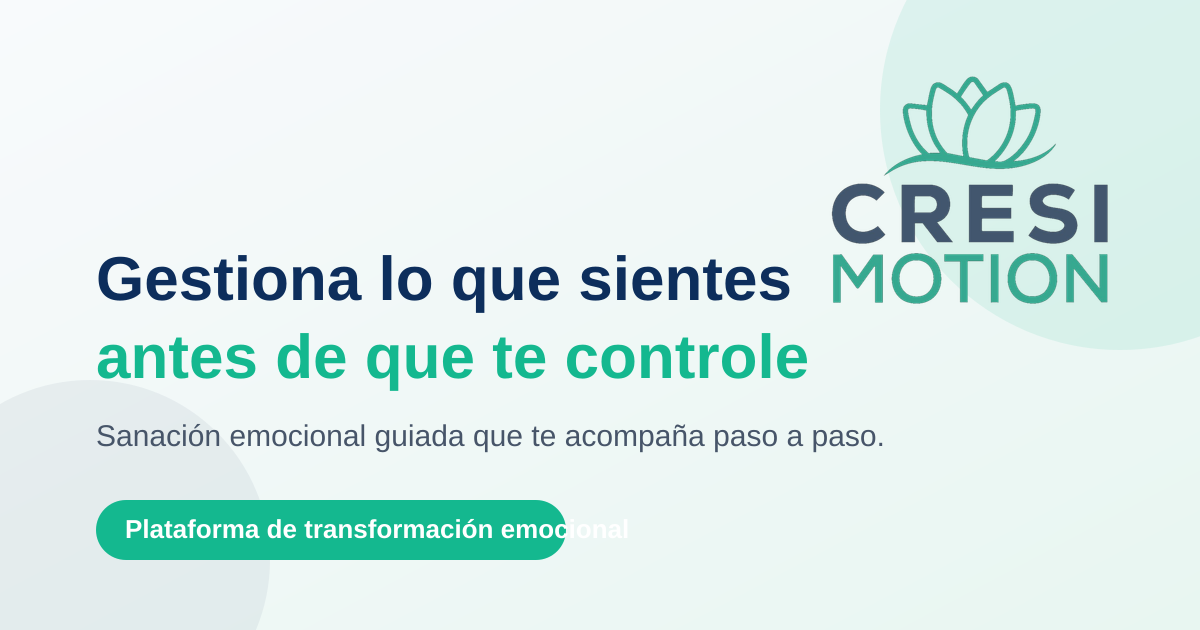
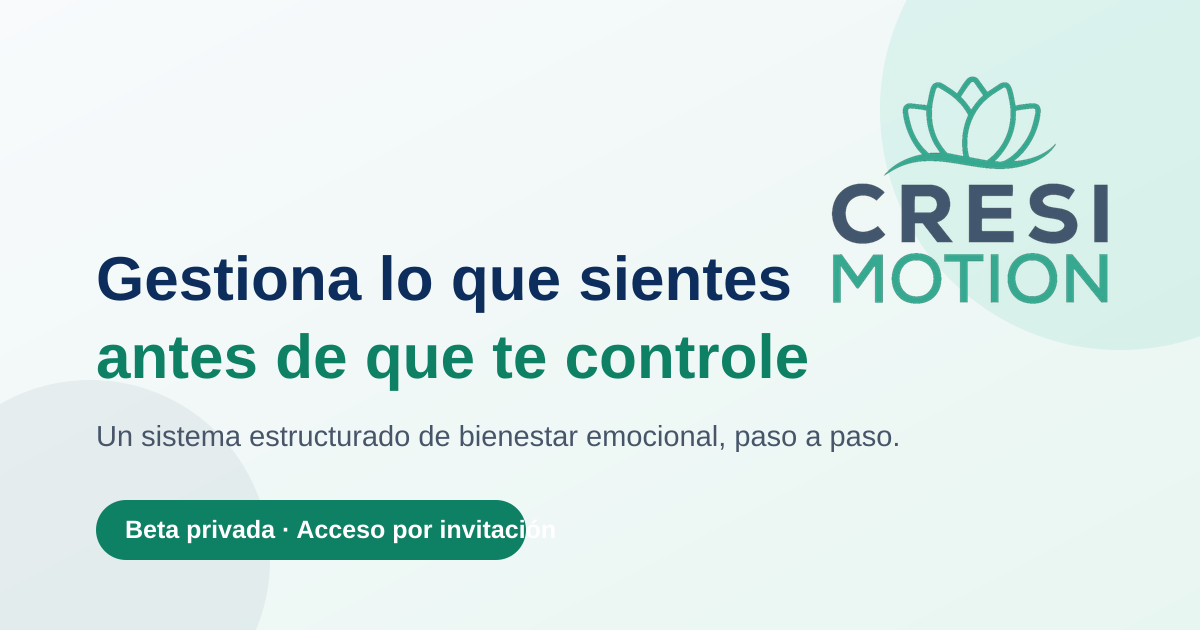
Apply CEO review: reposition product, beta benefits, inclusive copy
- Hero indicators now: Autoevaluaciones, Sesión terapéutica, Creación
  de hábitos saludables
- Reposition as "un sistema estructurado de bienestar emocional que te
  acompaña paso a paso" (hero + meta description + OG image)
- Gender-neutral copy throughout (saturación emocional y mental;
  invitación recibida; "todo listo"; "primeras personas")
- Reframe Expo Go as a temporary beta-only distribution method with a
  reassuring explainer (Expo Go is not CresiMotion; only to access the
  beta; gone in the final version) + secondary "Ver guía detallada de
  acceso" button (click_guia_acceso event)
- New "Beneficios por participar en la beta" section: 1 año Premium
  gratis, acceso anticipado, participación en la evolución; note that
  keeping the benefit requires sharing feedback

Claude-Session: https://claude.ai/code/session_017GDB93FxfebjZPLaZCRGbv

Changed region(s): [[0.0617, 0.7841, 0.4933, 0.9048], [0.0617, 0.6635, 0.74, 0.7238], [0.0617, 0.5127, 0.6783, 0.6333]]

diff --git a/components/BetaBenefits.tsx b/components/BetaBenefits.tsx
@@ -1,0 +1,75 @@
+import Reveal from "./Reveal";
+import { IconGift, IconBolt, IconCommunity, IconInfo } from "./Icons";
+
+const benefits = [
+  {
+    icon: IconGift,
+    title: "1 año de Premium gratis",
+    text: "Disfruta un año completo de membresía Premium sin costo por sumarte a la beta privada.",
+  },
+  {
+    icon: IconBolt,
+    title: "Acceso anticipado",
+    text: "Eres de las primeras personas en usar CresiMotion y en estrenar cada nueva función antes que nadie.",
+  },
+  {
+    icon: IconCommunity,
+    title: "Participa en su evolución",
+    text: "Tu voz influye directamente en cómo crece el producto y en las mejoras que vienen.",
+  },
+];
+
+export default function BetaBenefits() {
+  return (
+    <section id="beneficios-beta" className="scroll-mt-20 py-20 sm:py-24">
+      <div className="mx-auto max-w-6xl px-4 sm:px-6">
+        <Reveal className="mx-auto max-w-2xl text-center">
+          <p className="text-sm font-semibold uppercase tracking-wide text-brand-cta">
+            Beta privada
+          </p>
+          <h2 className="mt-3 text-3xl font-bold tracking-tight text-brand-navy sm:text-4xl">
+            Beneficios por participar en la beta
+          </h2>
+          <p className="mt-4 text-lg text-slate-600">
+            Sumarte ahora tiene ventajas que no estarán disponibles más adelante.
+          </p>
+        </Reveal>
+
+        <ul className="mt-12 grid gap-5 sm:grid-cols-3">
+          {benefits.map(({ icon: Icon, title, text }, i) => (
+            <Reveal as="li" key={title} delay={i * 90}>
+              <div className="h-full rounded-2xl border border-slate-100 bg-white p-7 shadow-sm transition-all duration-300 hover:-translate-y-1 hover:border-brand-green/30 hover:shadow-lg">
+                <span className="flex h-12 w-12 items-center justify-center rounded-xl bg-brand-green/10 text-brand-cta">
+                  <Icon className="h-6 w-6" />
+                </span>
+                <h3 className="mt-5 text-lg font-bold text-brand-navy">
+                  {title}
+                </h3>
+                <p className="mt-2 text-base leading-relaxed text-slate-600">
+                  {text}
+                </p>
+              </div>
+            </Reveal>
+          ))}
+        </ul>
+
+        {/* Condición de permanencia del beneficio */}
+        <Reveal delay={120}>
+          <div className="mx-auto mt-8 flex max-w-3xl items-start gap-3 rounded-2xl border border-brand-green/25 bg-brand-green/5 p-5">
+            <span className="mt-0.5 flex h-7 w-7 shrink-0 items-center justify-center rounded-full bg-brand-cta text-white">
+              <IconInfo className="h-4 w-4" />
+            </span>
+            <p className="text-sm leading-relaxed text-ink">
+              <span className="font-semibold text-brand-navy">
+                ¿Cómo conservas estos beneficios?
+              </span>{" "}
+              Para mantener el año de Premium gratis solo necesitas compartir tus
+              observaciones y comentarios sobre tu experiencia de uso. Tu
+              retroalimentación es parte esencial de la beta.
+            </p>
+          </div>
+        </Reveal>
+      </div>
+    </section>
+  );
+}

diff --git a/components/HowToStart.tsx b/components/HowToStart.tsx
@@ -6,12 +6,15 @@ import {
   EXPO_APP_URL,
   EXPO_GO_ANDROID_URL,
   EXPO_GO_IOS_URL,
+  ACCESS_GUIDE_URL,
 } from "@/lib/config";
 import {
   IconAndroid,
   IconApple,
   IconArrowRight,
   IconWarning,
+  IconInfo,
+  IconBook,
 } from "./Icons";
 
 export default function HowToStart() {
@@ -34,13 +37,44 @@ export default function HowToStart() {
           </p>
         </Reveal>
 
-        {/* Requisito previo: Expo Go (de-emphasized) */}
+        {/* Explicación tranquilizadora sobre Expo Go (solución temporal) */}
         <Reveal delay={80}>
-          <div className="mx-auto mt-10 max-w-xl rounded-2xl border border-white/10 bg-white/[0.04] p-5">
+          <div className="mx-auto mt-10 max-w-xl rounded-2xl border border-white/10 bg-white/[0.05] p-6">
+            <div className="flex items-center gap-3">
+              <span className="flex h-9 w-9 shrink-0 items-center justify-center rounded-full bg-brand-green/15 text-brand-green">
+                <IconInfo className="h-5 w-5" />
+              </span>
+              <h3 className="text-base font-bold">¿Qué es Expo Go?</h3>
+            </div>
+            <p className="mt-4 text-sm leading-relaxed text-slate-300">
+              Durante la beta, CresiMotion se distribuye de forma temporal a
+              través de Expo Go. Es solo la puerta de entrada para abrir la beta
+              en tu teléfono.
+            </p>
+            <ul className="mt-4 space-y-2.5 text-sm text-slate-200">
+              <ClarifyItem>
+                Expo Go <span className="font-semibold">no es CresiMotion</span>
+                : es únicamente la herramienta que permite acceder a la beta.
+              </ClarifyItem>
+              <ClarifyItem>
+                Solo lo usarás para entrar; tu experiencia ocurre dentro de
+                CresiMotion.
+              </ClarifyItem>
+              <ClarifyItem>
+                En la versión final no existirá este paso: abrirás CresiMotion
+                directamente.
+              </ClarifyItem>
+            </ul>
+          </div>
+        </Reveal>
+
+        {/* Paso 1: instalar Expo Go (temporal, de-emphasized) */}
+        <Reveal delay={120}>
+          <div className="mx-auto mt-6 max-w-xl rounded-2xl border border-white/10 bg-white/[0.04] p-5">
             <div className="flex flex-col gap-3 sm:flex-row sm:items-center sm:justify-between">
               <div>
                 <p className="text-[11px] font-semibold uppercase tracking-wider text-slate-400">
-                  Paso 1 · Requisito previo
+                  Paso 1 · Solo durante la beta
                 </p>
                 <p className="mt-1 text-sm font-medium text-slate-200">
                   Instala la app gratuita{" "}
@@ -67,7 +101,7 @@ export default function HowToStart() {
         </Reveal>
 
         {/* Pasos 2 y 3 (resumen breve) */}
-        <Reveal delay={120}>
+        <Reveal delay={160}>
           <div className="mx-auto mt-6 grid max-w-xl gap-3 sm:grid-cols-2">
             <MiniStep
               n={2}
@@ -77,18 +111,18 @@ export default function HowToStart() {
             <MiniStep
               n={3}
               title="Accede a la beta privada"
-              text="Toca el botón y la app se abrirá en Expo Go."
+              text="Toca el botón y CresiMotion se abrirá en Expo Go."
             />
           </div>
         </Reveal>
 
         {/* Bloque CTA principal (protagonista) */}
-        <Reveal delay={160}>
+        <Reveal delay={200}>
           <div className="relative mx-auto mt-10 max-w-xl overflow-hidden rounded-3xl border border-brand-green/40 bg-brand-green/[0.08] p-8 text-center shadow-2xl">
             <div className="pointer-events-none absolute -top-16 left-1/2 h-40 w-40 -translate-x-1/2 rounded-full bg-brand-green/30 blur-3xl" />
 
             <h3 className="relative text-2xl font-bold sm:text-3xl">
-              ¿Listo para empezar?
+              ¿Todo listo para empezar?
             </h3>
             <p className="relative mt-2 text-slate-300">
               Abre CresiMotion en tu teléfono con un solo toque.
@@ -103,7 +137,18 @@ export default function HowToStart() {
               <IconArrowRight className="h-6 w-6 transition-transform group-hover:translate-x-1" />
             </a>
 
-            <p className="relative mt-4 text-xs font-medium uppercase tracking-wide text-slate-400">
+            <div className="relative mt-4">
+              <a
+                href={ACCESS_GUIDE_URL}
+                onClick={() => trackEvent("click_guia_acceso")}
+                className="inline-flex items-center gap-2 rounded-full border border-white/20 px-5 py-2.5 text-sm font-semibold text-slate-100 transition-colors hover:border-white/50 hover:bg-white/5"
+              >
+                <IconBook className="h-4 w-4" />
+                Ver guía detallada de acceso
+              </a>
+            </div>
+
+            <p className="relative mt-5 text-xs font-medium uppercase tracking-wide text-slate-400">
               Acceso por invitación · Participación limitada
             </p>
 
@@ -114,14 +159,22 @@ export default function HowToStart() {
             >
               <IconWarning className="h-5 w-5 shrink-0 text-amber-300" />
               <p className="text-sm font-medium text-amber-50">
-                Necesitas Expo Go instalado para acceder correctamente a la
-                aplicación.
+                Necesitas Expo Go instalado para acceder correctamente a la beta.
               </p>
             </div>
           </div>
         </Reveal>
       </div>
     </section>
+  );
+}
+
+function ClarifyItem({ children }: { children: React.ReactNode }) {
+  return (
+    <li className="flex items-start gap-2.5">
+      <span className="mt-1.5 h-1.5 w-1.5 shrink-0 rounded-full bg-brand-green" />
+      <span className="leading-relaxed">{children}</span>
+    </li>
   );
 }
 

diff --git a/components/Icons.tsx b/components/Icons.tsx
@@ -122,6 +122,40 @@ export function IconCheck(props: SVGProps<SVGSVGElement>) {
   );
 }
 
+export function IconInfo(props: SVGProps<SVGSVGElement>) {
+  return (
+    <svg {...base} {...props}>
+      <circle cx="12" cy="12" r="9" />
+      <path d="M12 11v5M12 8h.01" />
+    </svg>
+  );
+}
+
+export function IconBook(props: SVGProps<SVGSVGElement>) {
+  return (
+    <svg {...base} {...props}>
+      <path d="M4 5a2 2 0 0 1 2-2h11a1 1 0 0 1 1 1v13a1 1 0 0 1-1 1H6a2 2 0 0 0-2 2Z" />
+      <path d="M4 19a2 2 0 0 1 2-2h12" />
+    </svg>
+  );
+}
+
+export function IconGift(props: SVGProps<SVGSVGElement>) {
+  return (
+    <svg {...base} {...props}>
+      <path d="M20 12v8H4v-8M2 8h20v4H2zM12 8V4M12 8c-2 0-4-1-4-2.5S10 4 12 8c2-4 4-3.5 4-2.5S14 8 12 8Z" />
+    </svg>
+  );
+}
+
+export function IconBolt(props: SVGProps<SVGSVGElement>) {
+  return (
+    <svg {...base} {...props}>
+      <path d="M13 2 4 14h7l-1 8 9-12h-7l1-8Z" />
+    </svg>
+  );
+}
+
 export function IconWarning(props: SVGProps<SVGSVGElement>) {
   return (
     <svg {...base} {...props}>

diff --git a/components/Hero.tsx b/components/Hero.tsx
@@ -1,17 +1,17 @@
 import Reveal from "./Reveal";
 import PhoneMockup from "./PhoneMockup";
 import {
-  IconPulse,
-  IconRoute,
-  IconCommunity,
+  IconClipboard,
+  IconHeadset,
+  IconGrowth,
   IconArrowRight,
   IconCheck,
 } from "./Icons";
 
 const indicators = [
-  { icon: IconPulse, label: "Diagnóstico emocional" },
-  { icon: IconRoute, label: "Proceso personalizado" },
-  { icon: IconCommunity, label: "Acompañamiento y comunidad" },
+  { icon: IconClipboard, label: "Autoevaluaciones" },
+  { icon: IconHeadset, label: "Sesión terapéutica" },
+  { icon: IconGrowth, label: "Creación de hábitos saludables" },
 ];
 
 export default function Hero() {
@@ -35,8 +35,8 @@ export default function Hero() {
           </h1>
 
           <p className="mx-auto mt-5 max-w-xl text-lg leading-relaxed text-slate-600 lg:mx-0">
-            Sanación emocional guiada y un sistema estructurado que te acompaña
-            paso a paso.
+            Un sistema estructurado de bienestar emocional que te acompaña paso
+            a paso.
           </p>
 
           {/* Narrativa de invitación */}
@@ -46,9 +46,9 @@ export default function Hero() {
             </span>
             <p className="text-sm leading-relaxed text-ink">
               <span className="font-semibold text-brand-navy">
-                Has sido invitado a participar en la beta privada.
+                Has recibido una invitación a la beta privada.
               </span>{" "}
-              Estás entre los primeros en vivir la experiencia CresiMotion.
+              Eres de las primeras personas en vivir la experiencia CresiMotion.
             </p>
           </div>
 

diff --git a/lib/config.ts b/lib/config.ts
@@ -13,6 +13,9 @@ export const EXPO_GO_ANDROID_URL =
 export const EXPO_GO_IOS_URL =
   "https://apps.apple.com/app/expo-go/id982107779";
 
+// Guía detallada de acceso (instructivo completo). Placeholder configurable.
+export const ACCESS_GUIDE_URL = "#guia-de-acceso";
+
 // Datos de contacto.
 export const CONTACT_EMAIL = "[email redacted]";
 
@@ -21,4 +24,4 @@ export const GA_MEASUREMENT_ID = process.env.NEXT_PUBLIC_GA_ID ?? "";
 
 // Respuesta editable para la pregunta de cuenta en el FAQ.
 export const FAQ_ACCOUNT_ANSWER =
-  "El acceso es por invitación con tu correo previamente autorizado, así que no necesitas registrarte. Dentro de la aplicación podrás guardar tu progreso de forma sencilla.";
+  "El acceso es por invitación con tu correo previamente autorizado, así que no necesitas registrarte. Dentro de CresiMotion podrás guardar tu progreso de forma sencilla.";

diff --git a/components/Faq.tsx b/components/Faq.tsx
@@ -24,9 +24,9 @@ const items: FaqItem[] = [
   },
   {
     q: "¿Por qué necesito Expo Go?",
-    a: "Actualmente CresiMotion utiliza Expo Go para facilitar el acceso a nuevas funcionalidades y mejoras continuas.",
+    a: "Expo Go es una solución temporal de distribución solo durante la beta: es la vía para abrir CresiMotion en tu teléfono. No es CresiMotion y, en la versión final, no necesitarás este paso.",
     schema:
-      "Actualmente CresiMotion utiliza Expo Go para facilitar el acceso a nuevas funcionalidades y mejoras continuas.",
+      "Expo Go es una solución temporal de distribución solo durante la beta: es la vía para abrir CresiMotion en tu teléfono. No es CresiMotion y, en la versión final, no necesitarás este paso.",
   },
   {
     q: "¿Tiene costo?",

diff --git a/app/layout.tsx b/app/layout.tsx
@@ -13,7 +13,7 @@ const inter = Inter({
 const siteUrl = "https://cresimotion.com";
 const title = "CresiMotion | Gestiona lo que sientes antes de que te controle";
 const description =
-  "Sanación emocional guiada y un sistema estructurado que te acompaña paso a paso.";
+  "Un sistema estructurado de bienestar emocional que te acompaña paso a paso.";
 
 export const metadata: Metadata = {
   metadataBase: new URL(siteUrl),

diff --git a/app/page.tsx b/app/page.tsx
@@ -2,6 +2,7 @@ import Header from "@/components/Header";
 import Hero from "@/components/Hero";
 import Benefits from "@/components/Benefits";
 import HowToStart from "@/components/HowToStart";
+import BetaBenefits from "@/components/BetaBenefits";
 import Faq from "@/components/Faq";
 import Footer from "@/components/Footer";
 
@@ -18,6 +19,7 @@ export default function Home() {
       <main id="contenido">
         <Hero />
         <Benefits />
+        <BetaBenefits />
         <HowToStart />
         <Faq />
       </main>

diff --git a/components/Benefits.tsx b/components/Benefits.tsx
@@ -12,7 +12,7 @@ const cards = [
   },
   {
     icon: IconBattery,
-    text: "Te sientes saturado emocionalmente y mentalmente.",
+    text: "Sientes saturación emocional y mental.",
   },
   {
     icon: IconLoop,

diff --git a/lib/analytics.ts b/lib/analytics.ts
@@ -7,6 +7,7 @@ export type AnalyticsEvent =
   | "click_expo_android"
   | "click_expo_ios"
   | "click_comenzar"
+  | "click_guia_acceso"
   | "click_aviso_privacidad";
 
 declare global {